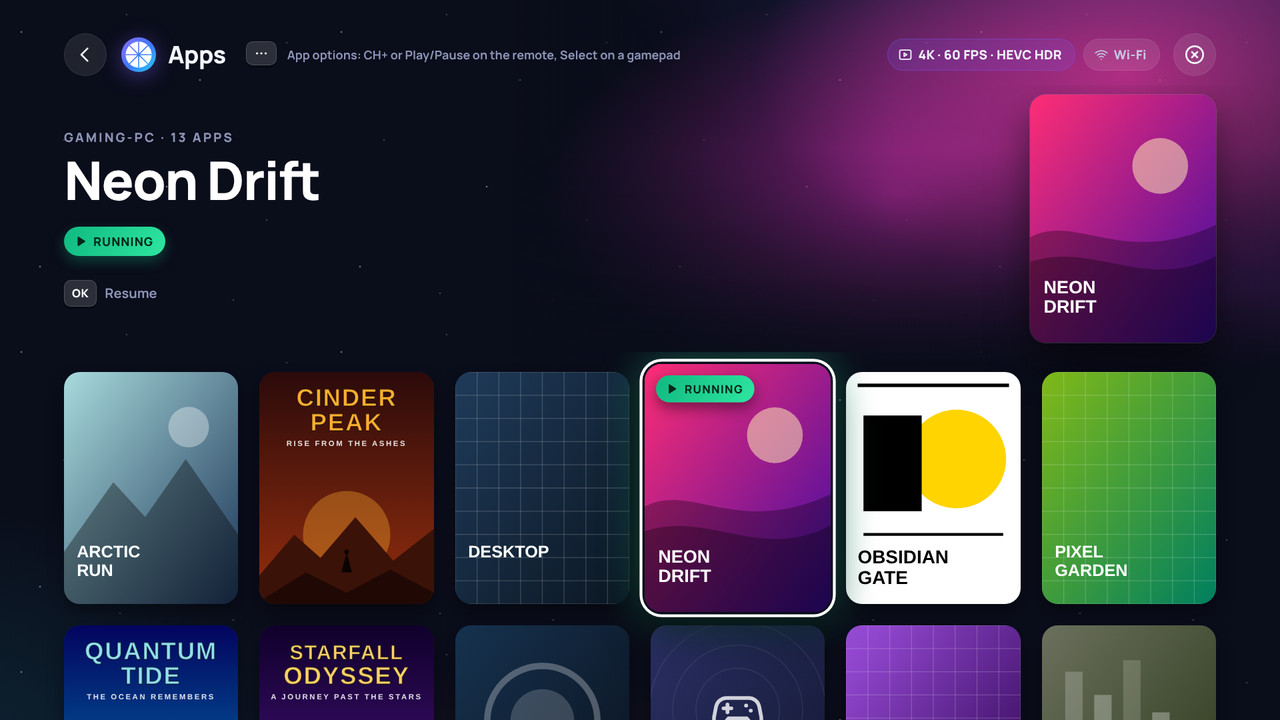
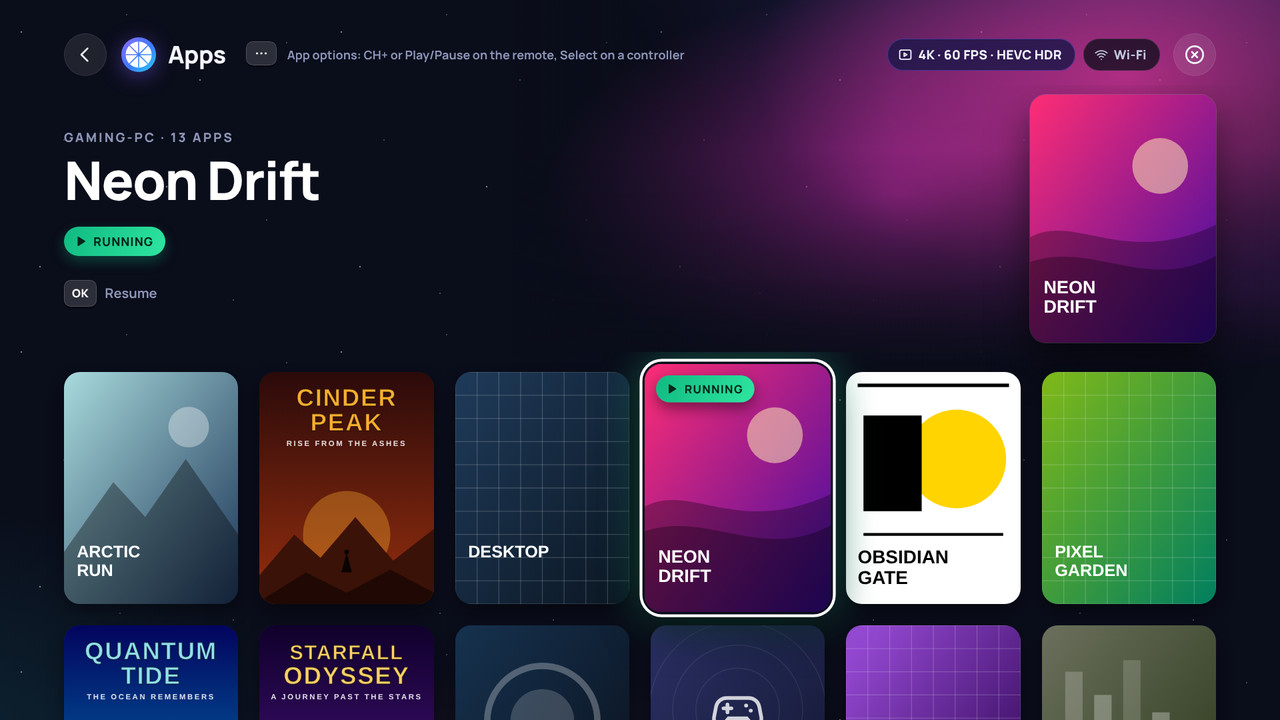
Work in progress: Moonlight Plus 2.2 cleanup (checkpoint while the work continues)
Claude-Session: https://claude.ai/code/session_01RgPyWhF3HwdMEPeuvv72hh

Changed region(s): [[0.6875, 0.0306, 0.9062, 0.1222], [0.5, 0.0611, 0.5312, 0.0917]]

diff --git a/tests/unit/guide-statements.test.js b/tests/unit/guide-statements.test.js
@@ -8,6 +8,7 @@
 // - the bitrate presets, which give the recommended bitrate of every resolution and frame rate (presetBitrate())
 // - the controller type that System information shows when the setting overrides the detection
 // - the Start of a hold that switches the mouse emulation on, which the game sees (wasm/gamepad.cpp)
+// - the buttons in the menus of docs/CONTROLLERS.md that the navigation guide of wasm/index.html leaves out
 // - the version suffix of a release promoted from a pre-release, and what the earlier release v1.19.0-s90c.1 offers
 // - the audio path that the section on surround sound with a soundbar describes: the 5.1 entry of the audio
 //   configuration, the 6-channel PCM track that only the EMSS backend adds, the two channels of the Web Audio output and
@@ -209,4 +210,46 @@ test('the guide gives the tested bitrate steps of the S90C itself and links the 
   for (const file of ['docs/GUIDE.md', 'README.md', 'docs/PATCH_NOTES.md']) {
     assert.ok(read(file).indexOf('](' + tagLink + ')') >= 0, file + ' links the tag v1.19.0-s90c.1');
   }
+});
+
+test('the controller page names the menu buttons that the navigation guide leaves out', () => {
+  const controllers = read('docs/CONTROLLERS.md');
+  const start = controllers.indexOf('\n## Buttons in the menus\n');
+  const section = controllers.slice(start, controllers.indexOf('\n## ', start + 1));
+  // The buttons of the table by their Xbox names (before a slash or a bracket), e.g. "Select / View (Share, Create)"
+  const buttons = section.split('\n').filter((line) => /^\| /.test(line) && !/^\| (Button|---)/.test(line))
+    .map((line) => line.split('|')[1].trim().split(' / ')[0].replace(/ \(.*\)$/, ''));
+  assert.deepEqual(buttons, ['A', 'B', 'D-pad, left stick', 'Select', 'Start']);
+  // The controller keys of the navigation guide (wasm/index.html), each line of a button as its own key
+  const guideKeys = [];
+  const pattern = /class="navGuideGamepadText" data-i18n="([^"]+)"/g;
+  let match;
+  while ((match = pattern.exec(read('wasm/index.html'))) !== null) {
+    guideKeys.push(match[1]);
+  }
+  const KEYS = { 'A': ['A'], 'B': ['B'], 'D-pad, left stick': ['D-PAD UP', 'L-STICK UP'], 'Select': ['SELECT'], 'Start': ['START'] };
+  const missing = buttons.filter((button) => KEYS[button].some((key) => guideKeys.indexOf(key) < 0));
+  // Start (CH- on the remote) only sets the focus, and the guide has no line for it since 2.2.0
+  assert.deepEqual(missing, ['Start']);
+  const sentence = section.split('\n').find((line) => line.indexOf('- The in-app *Navigation guide* (Settings → About) lists') === 0);
+  assert.ok(sentence, 'the controller page refers to the navigation guide');
+  assert.match(sentence, new RegExp('lists the same buttons except ' + missing.join(' and ') + ','));
+});
+
+test('the README and the guide name the PC list, its chip and its Add PC card as the English UI does', () => {
+  // The title of the first screen and its card for a new PC (wasm/platform/index.js, wasm/index.html)
+  assert.match(read('wasm/platform/index.js'), /\$\('#header-title'\)\.attr\('data-i18n', 'PCs'\)/);
+  assert.match(read('wasm/index.html'), /<span class="host-text" data-i18n="Add PC">Add PC<\/span>/);
+  const readme = read('README.md');
+  const hostsShot = readme.split('\n').find((line) => line.indexOf('](docs/images/hosts.jpg)') > 0);
+  assert.ok(hostsShot, 'the README shows docs/images/hosts.jpg');
+  assert.match(hostsShot, /titled PCs/);
+  assert.match(hostsShot, /with one Running chip/);
+  assert.match(hostsShot, /next to the Add PC card/);
+  // Names of 2.1.0 that the screens no longer show: the screen Hosts, the card Add Host, three chips of a PC, and the
+  // gamepad in the header of the app list
+  for (const [file, text] of [['README.md', readme], ['docs/GUIDE.md', GUIDE]]) {
+    assert.doesNotMatch(text, /Add Host|Hosts screen|host list\b|\*\*Hosts\.\*\*|\| Hosts \||Running, Online and Paired|Select on a gamepad/, file);
+  }
+  assert.match(GUIDE, /\*\*PC list\.\*\* The first screen, titled \*PCs\*\./);
 });

diff --git a/tests/unit/spanish-french-texts.test.js b/tests/unit/spanish-french-texts.test.js
@@ -93,9 +93,17 @@ test('the Spanish and French texts use the terms of the glossary', () => {
     assert.equal(texts[source], term, source);
     assert.deepEqual(matching(withoutGuideHeading(texts), avoided), [], source);
   });
-  // The PC is "equipo" or "PC" in Spanish and "PC" in French; "hôte" stays only for the hostname and for hosts like Wolf
-  assert.equal(spanish['Add PC'], 'Añadir equipo');
+  // The PC is "PC" in both languages, one name for one thing (the English texts say PC since 2.2.0); Spanish keeps
+  // "servidor" only for host software (Sunshine or another GameStream host, hosts like Wolf), French "hôte" only for the
+  // hostname and for hosts like Wolf
+  assert.equal(spanish['Add PC'], 'Añadir PC');
   assert.equal(french['Add PC'], 'Ajouter un PC');
+  ['PCs', 'PC Details', 'the PC', 'Remove all PCs', 'Delete All PCs', 'Are you sure you want to delete all saved PCs?',
+    'No PC is saved.', 'All PCs have been deleted.'].forEach((key) => assert.match(spanish[key], /\bPC\b/, key));
+  assert.deepEqual(matching(spanish, /\bequipos?\b/i), []);
+  const hostSoftwareEs = /GameStream host|Wolf/;
+  assert.deepEqual(keys.filter((key) => /\bservidor(es)?\b/.test(spanish[key]) && !hostSoftwareEs.test(key) && key !== 'Decrypt host audio')
+    .map((key) => spanish[key]), []);
   // The game mode of the TV, which the ForceGM variant asks for, keeps its name
   assert.match(spanish['ForceGM variant detected: the app asks the TV for its Game Mode, so the Ultra low latency mode setting stays off here and the decoder uses the Low Latency mode.'], /Modo Juego/);
   assert.match(french['ForceGM variant detected: the app asks the TV for its Game Mode, so the Ultra low latency mode setting stays off here and the decoder uses the Low Latency mode.'], /mode Jeu/);
@@ -160,7 +168,7 @@ test('texts that name a setting, a value or a menu entry use its Spanish and Fre
   });
   // The fallback name of a PC in 'Failed to connect to %1$s...' fits the preposition of the sentence
   assert.equal(spanish['Failed to connect to %1$s. Make sure that Sunshine (or another GameStream host) is running on the PC.']
-    .replace('%1$s', spanish['the PC']).indexOf('con el equipo'), 'No se pudo conectar '.length);
+    .replace('%1$s', spanish['the PC']).indexOf('con el PC'), 'No se pudo conectar '.length);
   assert.ok(french['Failed to connect to %1$s. Make sure that Sunshine (or another GameStream host) is running on the PC.']
     .replace('%1$s', french['the PC']).indexOf('se connecter à ce PC') > 0);
 });

diff --git a/CHANGELOG.md b/CHANGELOG.md
@@ -28,7 +28,7 @@ All notable changes to Moonlight Plus, by version, newest first. Each version li
 - Showed the state of a PC at the top of the hosts screen with the one chip of its card (*Running*, *Online*, *Unpaired* or *Offline*) instead of *Running · Online · Paired*, and the hint of an app that doesn't run says *Start* like its menu, not *Play*
 - Shortened the dialog of the optimal settings from 11 to 7 lines: the value tiles show the resolution, frame rate, bitrate and codec, so the text lists the other settings only, and *Tested model* is the end of the line *Detected*. Screen readers read the tiles now, and the buttons are *Apply* and *Cancel* in this dialog (the other warnings keep *Close* and *Continue*)
 - Rewrote the navigation guide: the OK key of the remote is called OK (it shared the locale key of the Select button of a controller), the RETURN line says that RETURN sends Esc to the PC during a stream, the Stream Menu line no longer lists outdated entries, RED says that it disconnects while the app keeps running on the PC and cancels a starting stream, one line describes the mouse emulation instead of six *in emulation* clauses, and the lines of CH- (*set the focus on the current item*) and of the TV volume (which the app doesn't handle) are gone. The keys *Navigation guide* and *Navigation Guide*, and *Running* and *RUNNING*, are one key each
-- Named things the same everywhere in English and Brazilian Portuguese: *controller* instead of *gamepad* and *PC* instead of *host* (e.g. *Add PC*, *Delete PC* also as the title of its dialog, *PC Details*, *Remove all PCs*), and *mouse emulation* instead of *mouse mode* in every language and in `docs/CONTROLLERS.md`. The notice of a controller that connects or disconnects names it, e.g. *Controller 0 (Xbox Wireless Controller) has been connected.*, and System information lists *Controller N* lines. The French *Basic Settings* are *Paramètres de base*, since *Général* is the new section
+- Named things the same everywhere in English and Brazilian Portuguese: *controller* instead of *gamepad* and *PC* instead of *host* (e.g. *Add PC*, *Delete PC* also as the title of its dialog, *PC Details*, *Remove all PCs*), and *mouse emulation* instead of *mouse mode* in every language and in `docs/CONTROLLERS.md`. The notice of a controller that connects or disconnects names it, e.g. *Controller 0 (Xbox Wireless Controller) has been connected.*, and System information lists *Controller N* lines. The French *Basic Settings* are *Paramètres de base*, since *Général* is the new section. Spanish, which called the PC *equipo* in some texts and *PC* in others (e.g. *Añadir equipo* next to *Eliminar PC*, and *No se ha recibido vídeo del equipo. Comprueba el cortafuegos del PC…*), calls it *PC* in every text now (*Añadir PC*, *Detalles del PC*, *Eliminar todos los PC*), and host software *servidor* (*Descifrar el audio del servidor*, *servidores como Wolf*), as the glossary of `docs/TRANSLATING.md` says
 - Replaced texts that sent NVIDIA users to GameStream in GeForce Experience, which NVIDIA removed in 2023: a failed connection says *Make sure that Sunshine (or another GameStream host) is running on the PC*, the empty hosts screen names Sunshine, and the pairing dialog no longer has a paragraph for GeForce Experience
 - Merged the three texts for H.264 without HDR into one (*H.264 has no HDR, so HDR is off.*) and removed the branch for another codec, which the codec menu can't select; a connection that ends with an unknown error says *The connection to the PC was lost (error N).* instead of *Connection terminated*, so a report names the code; the note of the diagnostic log says that the encryption keys of the stream are hidden, not *the input keys*; and the note after switching *Decrypt host audio* on says that Sunshine works with it but doesn't need it, instead of warning of audio problems
 - Trimmed `material.min.css` (Material Design Lite 1.3.0) from 140 KB to 57 KB: `tools/trim-mdl-css.js` removed the rules and selectors that no element of the app can match (colour palettes, grid, footers, typography and the components the app doesn't use), and the file keeps the Apache-2.0 header of MDL with a note of the change. All 75 screenshot scenes were compared pixel by pixel before and after; the only differences were the phase of animations (none with animations off), the generated box art and the random pairing PIN, which also differ between two runs of the same file
@@ -38,7 +38,7 @@ All notable changes to Moonlight Plus, by version, newest first. Each version li
 - Split this changelog by released version, rebuilt from the git history (2.1.0 with the pre-release 2.0.0, 1.19.101, 1.19.100 and 1.19.0-s90c.1), with each entry under the version that first had it, and replaced the copied changelog of Moonlight Tizen 1.19.0 and earlier with a link to it
 - Reordered `docs/GUIDE.md` in the order of use (requirements, installation with updates, the screens, the optimal settings, the Stream Menu, the bitrate, the host, ForceGM and game mode, HDR, audio, statistics, System information, the background, known limits, troubleshooting) under headings without numbers, so that a link to a heading survives the next change, and fixed every link to it in the repository; the section about updating from v1.19.0-s90c.1 is now two sentences under *Updates*, and the copy of the input test and the button mapping of `docs/CONTROLLERS.md` a link. The heading *ForceGM variant and game mode*, which a message of the app names, stays as it is
 - Merged `docs/RELEASE_NOTES_DEV.md` and `docs/RELEASE_NOTES_STABLE.md`, which repeated the same points, into `docs/RELEASE_NOTES.md`, which the pre-release and the promotion both read; a pre-release still adds its warning about a test build
-- Shortened the *Main improvements* of the README to 8 lines with links, the warning that Moonlight S90C offers no update to one line, and `tests/README.md` to one sentence per folder with the measured run times
+- Shortened the *Main improvements* of the README to 8 lines with links, the warning that Moonlight S90C offers no update to one line, and `tests/README.md` to one sentence per folder with the measured run times. The two screenshots of the README show the screens of 2.2.0 (the PC list *PCs* with one state chip and the *Add PC* card, the app list with the keys of the app menu of a controller), and the guide calls the first screen the PC list
 - Renamed the workflow *Release (Development)* to *Release*, the only release workflow: a full release is always a promoted pre-release. It creates the pre-release with `gh release create --target "$GITHUB_SHA"` instead of the archived actions `create-release` and `upload-release-asset`, and its jobs no longer get the unused permissions `issues: write` and `actions: write`
 - The bug form asks for a photo of the end of the diagnostic log (the app has no log files) and the Sunshine log instead of *Log files*, and no longer for the installed file (the *App Version* line names the ForceGM variant) or, as a required field, the Tizen version (both are on the required photo of System information)
 - `.github/CONTRIBUTING.md` links `docs/TRANSLATING.md` instead of the translation steps of upstream, which named a `LOCALE_LABELS` list that the app doesn't have, and names the test command `npm test --prefix tests`

diff --git a/docs/GUIDE.md b/docs/GUIDE.md
@@ -79,15 +79,15 @@ The earlier release v1.19.0-s90c.1 (*Moonlight S90C* on the TV) checks the relea
 
 | Icon | Button | Where |
 |---|---|---|
-| Circular arrow | Rescan network: searches the local network for PCs again, the arrow turns while it searches | Hosts |
-| Gear | Settings | Hosts |
-| Question mark | Support: the guide as a QR code, and where to report problems | Hosts |
+| Circular arrow | Rescan network: searches the local network for PCs again, the arrow turns while it searches | PC list |
+| Gear | Settings | PC list |
+| Question mark | Support: the guide as a QR code, and where to report problems | PC list |
 | Round arrow with a clock | Restore Defaults | Settings |
 | Circle with a cross | Quit app on the PC: only shows while an app runs on the PC | App list |
 
 A *New update* button with a download arrow appears in the header when a newer release exists (see [Updates](#updates)). The questions before quitting the running app, deleting a PC or all PCs and *Restore Defaults* open with *No* selected, so an OK pressed by mistake only closes them.
 
-**Hosts.** The top of the screen shows the selected PC in large type: its address, its state as one chip, the same as on its card (*Running*, *Online*, *Unpaired* or *Offline*), one sentence on what OK does and the keys to press, next to a drawing of a PC that changes with the state. Below, each PC has a card with a colored tile (mint while a game runs, amber when not paired, gray when offline) and its most important state. The ⋯ button of a card opens its menu, which starts on its first entry: *Refresh apps* (for a PC that is online) or *Wake PC* (for one that is offline), *View Details*, *Delete PC* and *Close*. UP reaches it from the first row of cards, and CH+ or Play/Pause opens the menu from any row, as the hint *↑ Options* or *⋯ Options* says. When the focus is in the header or a menu, the top shows the last PC without the keys, or a summary of all PCs.
+**PC list.** The first screen, titled *PCs*. Its top shows the selected PC in large type: its address, its state as one chip, the same as on its card (*Running*, *Online*, *Unpaired* or *Offline*), one sentence on what OK does and the keys to press, next to a drawing of a PC that changes with the state. Below, each PC has a card with a colored tile (mint while a game runs, amber when not paired, gray when offline) and its most important state. The ⋯ button of a card opens its menu, which starts on its first entry: *Refresh apps* (for a PC that is online) or *Wake PC* (for one that is offline), *View Details*, *Delete PC* and *Close*. UP reaches it from the first row of cards, and CH+ or Play/Pause opens the menu from any row, as the hint *↑ Options* or *⋯ Options* says. When the focus is in the header or a menu, the top shows the last PC without the keys, or a summary of all PCs.
 
 **App list.** The top shows the selected app with its box art, and the colors of the box art light up the screen once the selection rests on the app. A white ring marks the selected tile. The app that runs on the PC has a mint ring and a *Running* badge, a favorite has an amber star in the top right corner of its tile and a *Favorite* chip at the top, and hidden apps, when shown, are dimmed with a *Hidden* badge (see [Stream Menu and app menu](#stream-menu-and-app-menu)). An app without box art shows its title on its tile. The box art of a new host loads two apps at a time, and never holds up the start, resume or quit of an app: starting a stream drops the box art that hasn't arrived yet, and it loads when you return to the app list.
 
@@ -206,7 +206,7 @@ This table shows what the button applies. A test checks it against the code of t
 - The TV stores the hidden apps and the favorites of each host, by ID and title, so an app stays hidden or a favorite when Sunshine gives it a new ID. Deleting the host forgets them.
 - The running app always shows, also when it is hidden, so you can resume or quit it. When every app of a host is hidden, all of them show.
 
-**Order of the app list.** Settings → General → *Sort the list of apps* offers *A to Z* (the default), *Z to A*, *Recently played* (the last 20 apps you started on this host first, the latest first, then the others from A to Z) and *As on the PC* (the order in which the host lists them, e.g. the order set in Apollo). The favorites always come first, in the same order among themselves. The Smart Hub tiles follow the same order.
+**Order of the app list.** Settings → General → *Sort the list of apps* offers *A to Z* (the default), *Z to A*, *Recently played* (the last 20 apps you started on this PC first, the latest first, then the others from A to Z) and *As on the PC* (the order in which the PC lists them, e.g. the order set in Apollo). The favorites always come first, in the same order among themselves. The Smart Hub tiles follow the same order.
 
 ## Finding your bitrate
 
@@ -487,7 +487,7 @@ Other problems:
 - **Play/Pause doesn't open the Stream Menu:** some TVs may not pass the key to apps (untested). Hold Select + Start on a controller for 1 second instead; RED and YELLOW keep working. Settings → Input Settings → *Input test* shows whether the key reaches the app and whether Moonlight registered it ([CONTROLLERS.md](CONTROLLERS.md#input-test)).
 - **A button of a controller does the wrong thing in games:** change it in Settings → Input Settings → *Button mapping*; a worn stick that drifts or doesn't reach the edge can be calibrated there ([CONTROLLERS.md](CONTROLLERS.md#button-mapping-and-stick-calibration)).
 - **An app is missing from the app list:** it may be hidden. Open the menu of any app (CH+ or Play/Pause) and choose *Show hidden apps* (see [Stream Menu and app menu](#stream-menu-and-app-menu)).
-- **The PC isn't in the list, or it got a new IP address:** press UP in the host list and select *Rescan network* (the circular arrow, the first round button of the header) to search the local network again. The app searches for hosts on its own at startup, without a notice, while the host list shows; if you open a PC, the settings or a stream before the first check of the known PCs ended, there is no search at that start.
+- **The PC isn't in the list, or it got a new IP address:** press UP in the PC list and select *Rescan network* (the circular arrow, the first round button of the header) to search the local network again. The app searches for PCs on its own at startup, without a notice, while the PC list shows; if you open a PC, the settings or a stream before the first check of the known PCs ended, there is no search at that start.
 - **The picture freezes on Tizen 9.0 or newer:** turn the *Ultra low latency mode* switch off, and use the ForceGM variant for the Game Mode of the TV.
 - **Colors look washed out:** HDR is on in the app but off on the host display, or the TV doesn't support HDR (see [HDR](#hdr)).
 - **Only stereo from a soundbar or receiver:** see [Surround sound with a soundbar](#surround-sound-with-a-soundbar).

diff --git a/docs/TRANSLATING.md b/docs/TRANSLATING.md
@@ -93,13 +93,12 @@ The Spanish texts address the user with the informal *tú* (*Selecciona*, *Pulsa
 
 | English | Spanish | Note |
 |---|---|---|
-| host | equipo | *Añadir equipo*, *Eliminar todos los equipos* |
-| PC | PC | *el PC*, *Enviar al PC*, *Despertar el PC* |
+| host, host PC, PC | PC | *el PC*, plural *los PC*: *Añadir PC*, *Eliminar todos los PC*, *Despertar el PC*; not *equipo*. Host software is *servidor*: *u otro servidor de GameStream*, *servidores como Wolf*, *audio del servidor* |
 | pair, pairing | vincular, vinculación | |
 | gamepad, controller | mando | *Mandos* |
 | remote | mando a distancia | |
 | TV | televisor | |
-| settings | Ajustes | sections: *Ajustes básicos*, *Ajustes de interfaz*, *Ajustes del equipo*, *Ajustes de entrada*, *Ajustes de audio*, *Ajustes de vídeo*, *Ajustes avanzados*, *Acerca de* |
+| settings | Ajustes | sections: *Ajustes básicos*, *Ajustes de vídeo*, *Ajustes de audio*, *Ajustes de entrada*, *General*, *Ajustes avanzados*, *Acerca de*; the block *Experimental* |
 | Auto | Automático | |
 | On, Off | Activado, Desactivado | |
 | stream, streaming | transmisión | not *retransmisión* |
@@ -133,7 +132,7 @@ The French texts address the user with *vous*, as the menus of French TVs do (*S
 
 | English | French | Note |
 |---|---|---|
-| host, host PC | PC | *Ajouter un PC*, *Paramètres des PC*; *hôte* only for the hostname and for host software (*nom d’hôte*, *hôtes de type Wolf*, *audio de l’hôte*) |
+| host, host PC | PC | *Ajouter un PC*, *Supprimer tous les PC*; *hôte* only for the hostname and for host software (*nom d’hôte*, *hôtes de type Wolf*, *audio de l’hôte*) |
 | pair, pairing | associer, association | |
 | gamepad, controller | manette | |
 | remote | télécommande | |

diff --git a/README.md b/README.md
@@ -21,9 +21,9 @@ Moonlight Plus is an unofficial fork of [Moonlight Tizen](https://github.com/bri
 
 What changed in each version, in short: [patch notes](docs/PATCH_NOTES.md). Every detail: [changelog](CHANGELOG.md).
 
-![The Hosts screen of Moonlight Plus: the focused PC "GAMING-PC" with the chips Running, Online and Paired, the hints "OK Open" and "Options", a drawing of a PC that runs a game, and a row of PC cards that show their state (running, offline, unpaired, online) next to the Add Host card](docs/images/hosts.jpg)
+![The PC list of Moonlight Plus, titled PCs: the focused PC "GAMING-PC" with one Running chip, the hints "OK Open" and "Options", a drawing of a PC that runs a game, and a row of PC cards that show their state (running, offline, unpaired, online) next to the Add PC card](docs/images/hosts.jpg)
 
-![The app list of Moonlight Plus: the running game "Neon Drift" with its box art at the top right and a Running chip, and below it a grid of box art tiles, the focused one with a white ring and a mint Running badge](docs/images/apps.jpg)
+![The app list of Moonlight Plus: the running game "Neon Drift" with its box art at the top right, a Running chip and the hint "OK Resume", the keys of the app menu and the button that quits the app on the PC in the header, and below a grid of box art tiles, the focused one with a white ring and a mint Running badge](docs/images/apps.jpg)
 
 *Screenshots of a simulated TV with made-up PCs and generated box art.*
 

diff --git a/docs/CONTROLLERS.md b/docs/CONTROLLERS.md
@@ -47,7 +47,7 @@ The menus use the button positions (Xbox names first, PlayStation names in brack
 | Start / Menu (Options) | Like CH- on the remote: set the focus on the current item |
 
 - A, B, Select and Start act 50 ms after the press, close to the keys of the remote. A move of the left stick acts after 150 ms, so that a diagonal movement doesn't make two steps.
-- The in-app *Navigation guide* (Settings → About) lists the same buttons, with the remote and keyboard keys next to them, and one line for the mouse emulation (see [Mouse emulation](#mouse-emulation)).
+- The in-app *Navigation guide* (Settings → About) lists the same buttons except Start, which only sets the focus like CH-, with the remote and keyboard keys next to them, and one line for the mouse emulation (see [Mouse emulation](#mouse-emulation)).
 - The [button mapping](#button-mapping-and-stick-calibration) only applies during a stream. In the menus, the bottom button always selects, also on Nintendo controllers, whose labels differ.
 - Buttons that are still held when a stream ends (e.g. the stop combo) don't trigger anything in the menus.
 

diff --git a/docs/PATCH_NOTES.md b/docs/PATCH_NOTES.md
@@ -28,7 +28,7 @@ What changed in each version of Moonlight Plus, in short, newest first.
 - The bitrate presets are the recommended bitrates, and *Optimal settings* lets the bitrate follow them again
 - Screens open without the half-second wait, and controller buttons act after 50 ms in the menus
 - Rumble is on for new installs; questions that quit an app or delete a PC start on *No*
-- The PC menu lists only what works, and the hosts screen shows one state chip
+- The PC menu lists only what works, and the PC list shows one state chip
 - *Restore Defaults* keeps the button mapping and the stick calibration
 - About 240 KB smaller download: unused files, styles and code are gone
 
